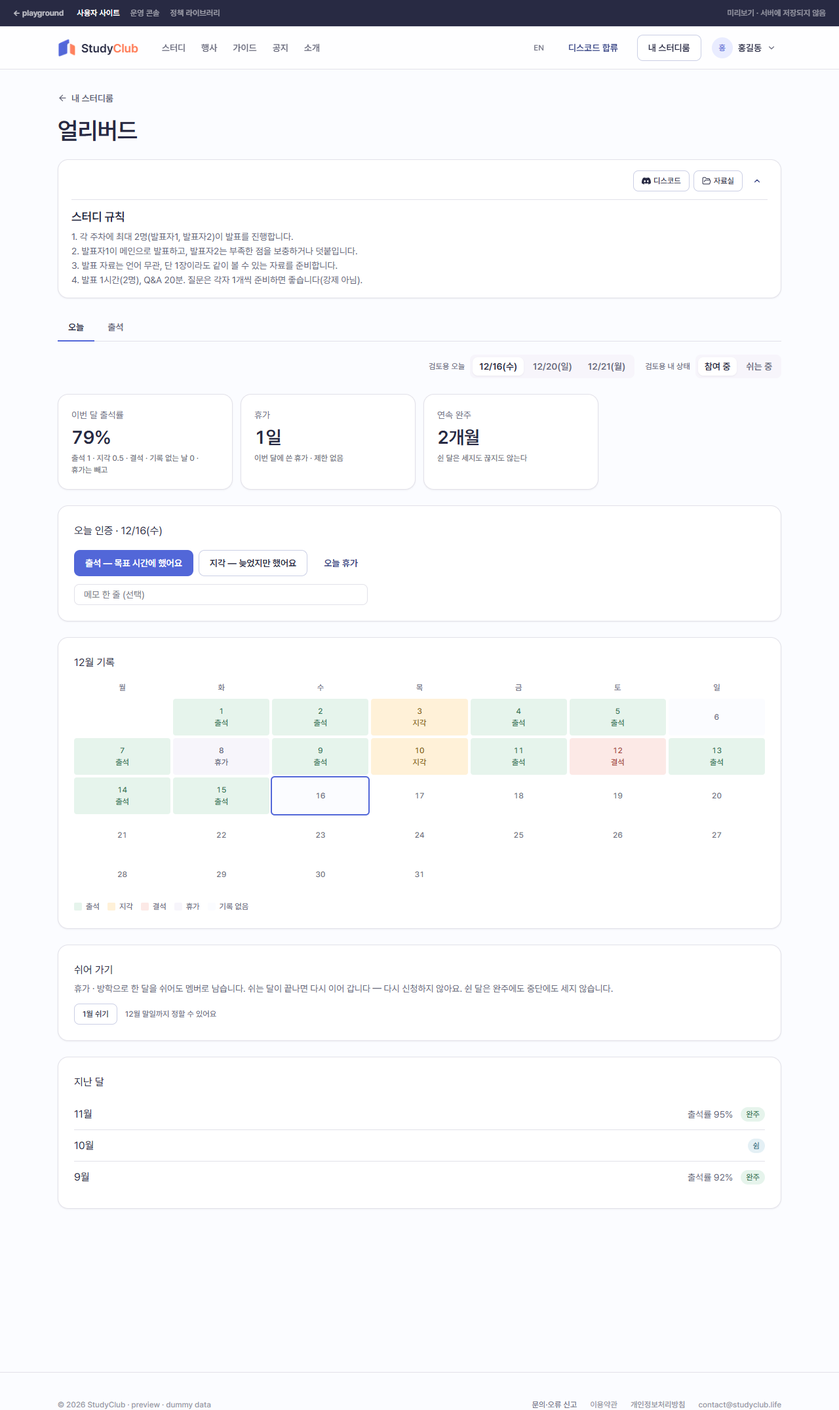
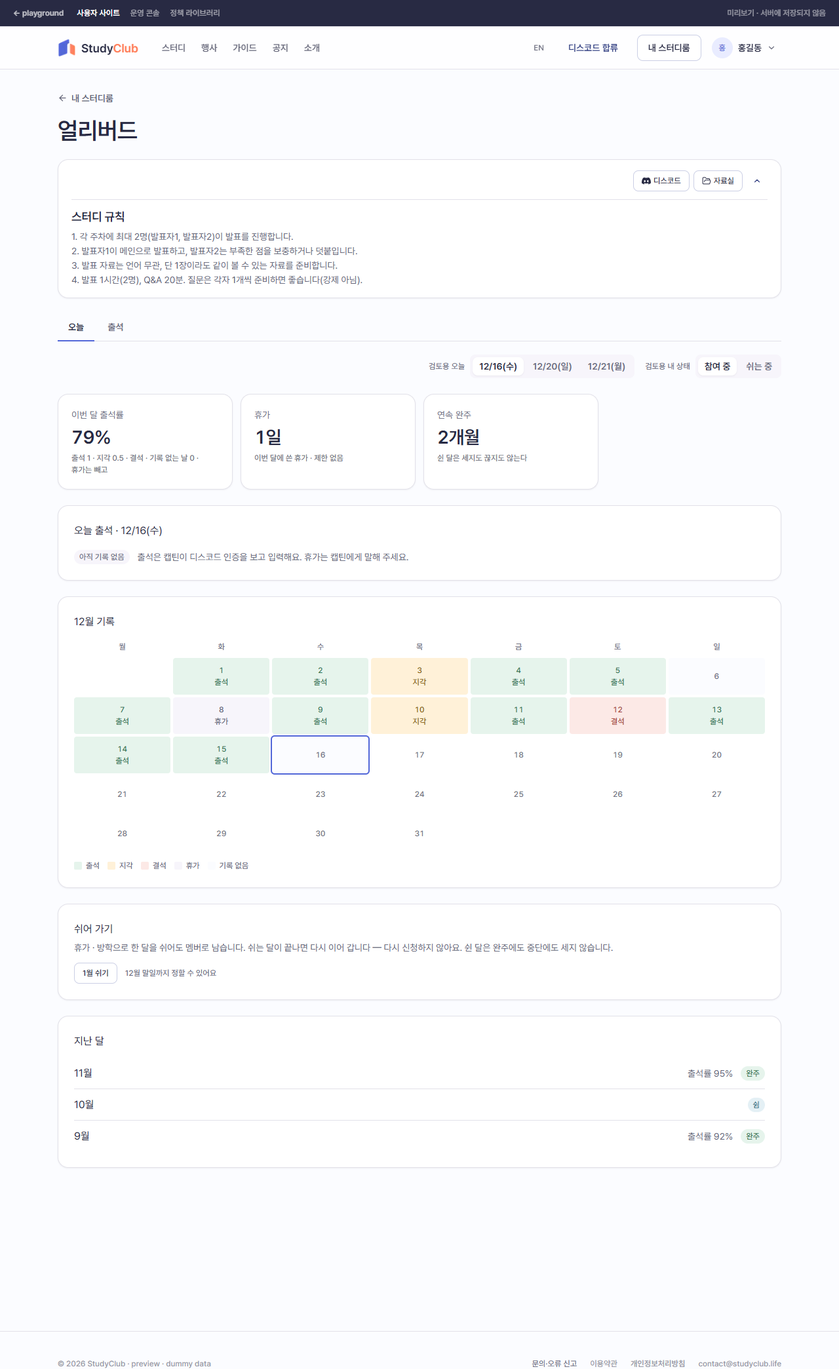
proto: 클럽 날 단위 출석은 캡틴만 입력 — 크루는 오늘 탭에서 보기만
- 얼리버드 오늘 탭의 인증 · 지각 · 휴가 · 메모 · 인증 취소를 없애고 캡틴이 남긴 값만 보인다
- 클럽 설정 source 에 captain 추가 (얼리버드). 캡틴만 입력하는 클럽은 「캡틴이 고침」 점을 찍지 않는다
- LeetCode 는 자동 기록, WEEKLY X 공부 시간은 그대로 크루가 적는다
- 화면명세 · PRD(ST-043 · ST-044) · POL-0012 · 캡처

diff --git a/frontend/apps/playground/src/app/(proto)/proto/core/[locale]/my/joined/[id]/schedule/club-spec.ts b/frontend/apps/playground/src/app/(proto)/proto/core/[locale]/my/joined/[id]/schedule/club-spec.ts
@@ -14,7 +14,7 @@ export const CLUB_TODAY_SPEC: ScreenSpec = {
   notes: [
     '**스터디와 같은 껍데기** — 내 스터디룸의 클럽 카드도 스터디 일정(`/my/joined/{study_id}/schedule`)으로 온다. 머리 · 규칙 카드 · 탭 줄이 같고, 탭만 「오늘 · 출석 · 공지」다 (스터디: 일정 · 출석 · 회고 · 공지)',
     '클럽에는 일정 · 회차 · 미팅이 없다 — 첫 탭이 「일정」 대신 「오늘」(내 기록)이고, 출석 탭은 멤버 × 날짜 판이다',
-    '**칸 · 숫자는 클럽 설정과 멤버 상태가 고른다** — 클럽 이름으로 나누지 않는다. 얼리버드: 오늘 인증 · 달력 · 출석률 / Daily LeetCode: 자동 기록 · 달력 · 연속일 / WEEKLY X: 주 목표 · 공부 시간 · 한 줄 · 최근 주 · 주 달성률',
+    '**칸 · 숫자는 클럽 설정과 멤버 상태가 고른다** — 클럽 이름으로 나누지 않는다. 얼리버드: 오늘 출석(보기) · 달력 · 출석률 / Daily LeetCode: 자동 기록 · 달력 · 연속일 / WEEKLY X: 주 목표 · 공부 시간 · 한 줄 · 최근 주 · 주 달성률',
     '**합격선은 두지 않는다** — 출석률 · 연속일 · 주 달성률을 숫자로만 보여 준다. **자동 제명도 하지 않는다**',
     '검토용 「오늘」(수 · 일 · 월)과 「내 상태」(참여 중 · 쉬는 중)는 프로토 도구다 — 오늘 탭과 출석 탭이 같은 값을 쓴다',
   ],
@@ -67,8 +67,8 @@ export const CLUB_TODAY_SPEC: ScreenSpec = {
     {
       n: '2-4',
       title: '휴가',
-      when: '하루 휴가를 받는 클럽 (얼리버드)',
-      display: ['이번 달에 쓴 휴가 일수. 한도가 있는 클럽이면 「쓴 수 / 한도」'],
+      when: '날 단위 클럽',
+      display: ['이번 달 휴가 일수 — 캡틴이 입력한다. 한도가 있는 클럽이면 「쓴 수 / 한도」'],
       policy: ['한도는 클럽 설정 값이다. 없으면 제한 없음 — 지금 세 클럽은 제한이 없다'],
     },
     {
@@ -80,34 +80,19 @@ export const CLUB_TODAY_SPEC: ScreenSpec = {
     },
     {
       n: '3',
-      title: '오늘 인증',
-      when: '크루가 직접 「했다」를 남기는 클럽 (얼리버드)',
-      display: ['오늘 날짜. 인증했으면 값 · 메모와 「인증 취소」'],
+      title: '오늘 출석',
+      when: '캡틴이 출석을 입력하는 클럽 (얼리버드)',
+      display: ['오늘 날짜와 캡틴이 남긴 값'],
+      policy: [
+        '**출석은 캡틴만 입력한다** (2026-11-26) — 크루는 인증 · 휴가를 직접 남기지 않고, 휴가는 캡틴에게 말한다',
+        '값은 스터디 출석과 같은 출석 · 지각 · 결석 · 휴가. 얼리버드 디스코드 포스트의 괄호 요일 `(화)` 가 지각이다',
+      ],
     },
     {
       n: '3-1',
-      title: '인증 버튼',
-      behavior: [
-        '「출석 — 목표 시간에 했어요」 · 「지각 — 늦었지만 했어요」',
-        '인증한 날에는 「인증 취소」 — 그날 안에만',
-      ],
-      policy: [
-        '값은 스터디 출석과 같은 출석 · 지각 · 결석 · 휴가. 크루는 출석 · 지각 · 휴가만 남기고, 결석은 캡틴이 적는다',
-        '얼리버드 시트의 괄호 요일 `(화)` 가 지각이다',
-        '오늘 칸만 인증한다. 지난 날은 캡틴이 출석부에서 고친다',
-      ],
-      data: ['`PUT /api/clubs/{programId}/me/checkins` — `date` · `result` · `note` → `CLUB_CHECKIN`(`SOURCE = CREW`)'],
-    },
-    {
-      n: '3-2',
-      title: '오늘 휴가',
-      behavior: ['오늘을 휴가로 남긴다 — 출석률 분모에서 빠진다'],
-      policy: ['한도가 있는 클럽이면 다 쓰면 누를 수 없다. 지금은 제한 없음'],
-    },
-    {
-      n: '3-3',
-      title: '메모 한 줄',
-      display: ['선택. 100자'],
+      title: '오늘 값',
+      display: ['값 배지, 없으면 「아직 기록 없음」과 캡틴이 디스코드 인증을 보고 입력한다는 안내'],
+      data: ['`GET /api/clubs/{programId}/me` 의 오늘 `CLUB_CHECKIN`(`SOURCE = CAPTAIN`)'],
     },
     {
       n: '4',
@@ -115,7 +100,7 @@ export const CLUB_TODAY_SPEC: ScreenSpec = {
       when: '외부 기록을 자동으로 받는 클럽 (Daily LeetCode)',
       display: ['「{외부 서비스} 기록을 자동으로 받아 옵니다」'],
       policy: [
-        '크루는 인증 버튼을 누르지 않는다. 기록이 틀리면 캡틴이 출석부에서 고친다 (지금 시트의 「어제 칸 스트릭 고치기」)',
+        '크루는 인증 버튼을 누르지 않는다. 기록이 틀리거나 휴가면 캡틴이 출석부에서 고친다 (지금 시트의 「어제 칸 스트릭 고치기」)',
       ],
       data: ['`CLUB_CHECKIN`(`SOURCE = AUTO`) — 날짜는 클럽 규칙의 기준 시각(UTC)으로 센다'],
     },

diff --git a/frontend/apps/playground/src/proto/core/components/MyClub.tsx b/frontend/apps/playground/src/proto/core/components/MyClub.tsx
@@ -278,71 +278,22 @@ const SECTIONS: Record<SectionKey, (c: Ctx) => ReactNode> = {
   history: HistorySection,
 };
 
-function TodaySection({ club, state, setState, today, month }: Ctx) {
+/**
+ * 오늘 기록 — 보기만 한다. 출석은 캡틴만 입력한다 (2026-11-26) — 크루는 인증 · 휴가를 직접 남기지 않는다.
+ */
+function TodaySection({ state, today }: Ctx) {
   const mark = state.days[today];
-  const [note, setNote] = useState('');
-  const limit = club.rules.vacationLimit;
-  const used = dayOffUsed(state, month);
-
-  function check(v: DayMark | undefined) {
-    setState((s) => {
-      const days = { ...s.days };
-      const notes = { ...s.notes };
-      if (v) {
-        days[today] = v;
-        if (note.trim()) notes[today] = note.trim();
-      } else {
-        delete days[today];
-        delete notes[today];
-      }
-      return { ...s, days, notes };
-    });
-    if (!v) setNote('');
-  }
-
   return (
     <Card data-anno='myclub:3' padding='lg'>
-      <h2 className='type-title-sm text-fg'>오늘 인증 · {shortDay(today)}</h2>
-      {mark ? (
-        <div className='mt-4 flex flex-wrap items-center gap-3'>
-          <Badge tone={MARK_TONE[mark]}>{MARK_LABEL[mark]}</Badge>
-          {state.notes[today] && <span className='type-body-sm text-fg-secondary'>{state.notes[today]}</span>}
-          <span data-anno='myclub:3-1'>
-            <Button variant='tertiary' size='sm' onClick={() => check(undefined)}>
-              인증 취소
-            </Button>
-          </span>
-        </div>
-      ) : (
-        <div className='mt-4 flex flex-col gap-3'>
-          <div className='flex flex-wrap gap-2'>
-            <span data-anno='myclub:3-1' className='flex flex-wrap gap-2'>
-              <Button onClick={() => check('present')}>출석 — 목표 시간에 했어요</Button>
-              <Button variant='secondary' onClick={() => check('late')}>
-                지각 — 늦었지만 했어요
-              </Button>
-            </span>
-            <span data-anno='myclub:3-2'>
-              <Button
-                variant='tertiary'
-                disabled={limit !== undefined && used >= limit}
-                onClick={() => check('excused')}
-              >
-                오늘 휴가{limit !== undefined ? ` (${limit - used}일 남음)` : ''}
-              </Button>
-            </span>
-          </div>
-          <span data-anno='myclub:3-3' className='max-w-md'>
-            <Input
-              size='sm'
-              placeholder='메모 한 줄 (선택)'
-              maxLength={100}
-              value={note}
-              onChange={(e) => setNote(e.target.value)}
-            />
-          </span>
-        </div>
-      )}
+      <h2 className='type-title-sm text-fg'>오늘 출석 · {shortDay(today)}</h2>
+      <div data-anno='myclub:3-1' className='mt-4 flex flex-wrap items-center gap-3'>
+        <Badge tone={mark ? MARK_TONE[mark] : 'neutral'}>{mark ? MARK_LABEL[mark] : '아직 기록 없음'}</Badge>
+        <span className='type-body-sm text-fg-secondary'>
+          {mark
+            ? '캡틴이 남긴 기록이에요.'
+            : '출석은 캡틴이 디스코드 인증을 보고 입력해요. 휴가는 캡틴에게 말해 주세요.'}
+        </span>
+      </div>
     </Card>
   );
 }
@@ -372,7 +323,7 @@ function AutoSection({ club, state, today }: Ctx) {
             ? `연속 ${currentStreak(state, today)}일째`
             : mark
               ? '캡틴이 남긴 기록이에요.'
-              : `${name}에서 풀면 출석으로 반영돼요. 기록이 틀리면 캡틴에게 알려 주세요.`}
+              : `${name}에서 풀면 출석으로 반영돼요. 기록이 틀리거나 휴가가 필요하면 캡틴에게 알려 주세요.`}
         </span>
       </div>
     </Card>

diff --git a/frontend/apps/playground/src/proto/club/ClubBoard.tsx b/frontend/apps/playground/src/proto/club/ClubBoard.tsx
@@ -41,6 +41,9 @@ const CELL: Record<DayMark, string> = {
 const SHORT: Record<DayMark, string> = { present: '출', late: '지', absent: '결', excused: '휴' };
 const LABEL: Record<DayMark, string> = { present: '출석', late: '지각', absent: '결석', excused: '휴가' };
 const SOURCE_LABEL = { crew: '크루가 남김', auto: '자동 기록', captain: '캡틴이 고침' } as const;
+/** 캡틴이 고친 칸 점 — 캡틴만 입력하는 클럽은 모든 칸이 캡틴 것이라 찍지 않는다 */
+const markEdited = (room: ClubRoom, id: string, d: string) =>
+  room.club.rules.source !== 'captain' && sourceOf(room, id, d) === 'captain';
 
 type Anno = Partial<Record<'table' | 'name' | 'extra' | 'dayHead' | 'cell' | 'total' | 'counts' | 'legend', string>>;
 
@@ -119,12 +122,16 @@ function Legend({ room, anno, extra }: { room: ClubRoom; anno?: string; extra?: 
           기록 없음
         </li>
       )}
-      <li className='flex items-center gap-1.5'>
-        <span className='relative h-5 w-5 rounded-sm border border-border bg-surface-1'>
-          <span className='absolute right-0.5 top-0.5 h-1.5 w-1.5 rounded-full bg-brand' />
-        </span>
-        {SOURCE_LABEL.captain} · 나머지는 {SOURCE_LABEL[r.source]}
-      </li>
+      {r.source === 'captain' ? (
+        <li>캡틴이 입력</li>
+      ) : (
+        <li className='flex items-center gap-1.5'>
+          <span className='relative h-5 w-5 rounded-sm border border-border bg-surface-1'>
+            <span className='absolute right-0.5 top-0.5 h-1.5 w-1.5 rounded-full bg-brand' />
+          </span>
+          {SOURCE_LABEL.captain} · 나머지는 {SOURCE_LABEL[r.source]}
+        </li>
+      )}
       {extra}
     </ul>
   );
@@ -232,7 +239,7 @@ function DayBoard({ room, days, onRoom, baseline, lead, nameExtra, showCounts, a
                     const v = s?.days[d];
                     const was = baseline?.states[m.id]?.days[d];
                     const changed = baseline !== undefined && was !== v;
-                    const captain = sourceOf(room, m.id, d) === 'captain' && v !== undefined;
+                    const captain = markEdited(room, m.id, d) && v !== undefined;
                     const text = v
                       ? r.metric === 'streak' && (v === 'present' || v === 'late')
                         ? String(currentStreak(s!, d))
@@ -406,7 +413,7 @@ function WeekBoard({ room, week, onRoom, baseline, lead, nameExtra, anno = {} }:
                   {days.map((d, di) => {
                     const v = s?.minutes[d];
                     const changed = baseline !== undefined && baseline.states[m.id]?.minutes[d] !== v;
-                    const captain = sourceOf(room, m.id, d) === 'captain' && v !== undefined;
+                    const captain = markEdited(room, m.id, d) && v !== undefined;
                     return (
                       <td
                         key={d}

diff --git a/frontend/apps/playground/src/proto/core/lib/my-club.ts b/frontend/apps/playground/src/proto/core/lib/my-club.ts
@@ -126,9 +126,6 @@ export function fmtMin(min: number): string {
 /** 날 단위 기록 값 — 스터디 출석과 같은 네 값. 클럽마다 고르지 않는다 */
 export const DAY_MARKS: readonly DayMark[] = ['present', 'late', 'absent', 'excused'];
 
-/** 크루가 오늘 칸에 스스로 남기는 값 — 결석은 캡틴이 적는다 (스터디도 결석은 네비게이터 · 캡틴이) */
-export const CREW_MARKS: readonly DayMark[] = ['present', 'late', 'excused'];
-
 /** 이 클럽 출석부의 값 — 날 단위면 네 값, 주 단위(공부 시간)는 없다 */
 export function marksFor(rules: ClubRules): DayMark[] {
   return rules.judge === 'day' ? [...DAY_MARKS] : [];
@@ -325,7 +322,7 @@ export type StatKey = 'monthRate' | 'dayOff' | 'streak' | 'monthDone' | 'weekNow
 type Rule<K> = { key: K; when: (r: ClubRules) => boolean };
 
 const SECTION_RULES: Rule<SectionKey>[] = [
-  { key: 'today', when: (r) => r.record === 'check' && r.source === 'crew' },
+  { key: 'today', when: (r) => r.record === 'check' && r.source !== 'auto' },
   { key: 'auto', when: (r) => r.source === 'auto' },
   { key: 'goal', when: (r) => r.weeklyGoal },
   { key: 'minutes', when: (r) => r.record === 'minutes' },

diff --git a/frontend/apps/playground/src/proto/console/lib/clubs.ts b/frontend/apps/playground/src/proto/console/lib/clubs.ts
@@ -54,8 +54,11 @@ export type ClubRules = {
   weeklyGoal: boolean;
   /** 주마다 한 줄(다짐 · 회고 · 사정 무엇이든, 선택)을 남기는가 */
   weeklyNote: boolean;
-  /** 인증하는 사람 — 크루 직접 / 외부 기록 자동 */
-  source: 'crew' | 'auto';
+  /**
+   * 기록을 남기는 곳 — 캡틴 입력(얼리버드) / 크루가 공부 시간을 적음(WEEKLY X) / 외부 기록 자동(Daily LeetCode).
+   * 날 단위 출석은 크루가 직접 남기지 않는다 (2026-11-26)
+   */
+  source: 'captain' | 'crew' | 'auto';
   /** 자동일 때 기록을 받아 오는 곳의 이름 (화면 안내) */
   autoSourceName?: string;
   /** 날마다 같은 「오늘의 문제」가 있는가 */
@@ -79,7 +82,7 @@ export const CLUBS: ClubConfig[] = [
       metric: 'rate',
       weeklyGoal: false,
       weeklyNote: false,
-      source: 'crew',
+      source: 'captain',
       dailyProblem: false,
     },
   },

diff --git a/frontend/apps/playground/src/app/(proto)/proto/console/clubs/spec.ts b/frontend/apps/playground/src/app/(proto)/proto/console/clubs/spec.ts
@@ -292,7 +292,7 @@ const BOOK: ScreenSpec = {
   chip: '월간 출석부',
   scope: 'clubbook',
   notes: [
-    '**사용자 사이트 출석 탭(ST-044)과 같은 판 · 같은 기록**이다 — 크루가 남기거나(얼리버드 · WEEKLY X) 자동으로 들어온(Daily LeetCode) 기록을 캡틴이 확인하고 고친다. 다 적지 않는다',
+    '**사용자 사이트 출석 탭(ST-044)과 같은 판 · 같은 기록**이다 — 날 단위 출석은 **캡틴만 입력한다**(얼리버드). Daily LeetCode 는 자동으로 들어온 기록을, WEEKLY X 는 크루가 적은 공부 시간을 캡틴이 확인하고 고친다',
     '칸 모양 · 숫자는 클럽 설정이 정한다 — 날 단위는 날짜 칸, 주 단위는 고른 주의 날마다 공부 시간 · 목표',
     '합격선 · 자동 제명이 없다 — 「살펴볼 사람」은 연락용이다',
   ],

diff --git a/frontend/apps/playground/src/proto/club/room.ts b/frontend/apps/playground/src/proto/club/room.ts
@@ -100,7 +100,7 @@ export function patchMember(room: ClubRoom, id: string, f: (s: MyClubState) => M
 /* ── 기록 → 숫자 · 출처 ─────────────────────────────────────────────── */
 
 export function sourceOf(room: ClubRoom, id: string, day: string): RecordSource {
-  if (room.states[id]?.byCaptain?.[day]) return 'captain';
+  if (room.club.rules.source === 'captain' || room.states[id]?.byCaptain?.[day]) return 'captain';
   return room.club.rules.source;
 }
 

diff --git a/01-planning/stories/crew-my-club/PRD.md b/01-planning/stories/crew-my-club/PRD.md
@@ -16,7 +16,8 @@ story_id: ST-044 · IA: IA-044 · 상태: 스펙작성중 (초안 — R2)
 
 · **실제 운영을 따른다** — 지금까지 캡틴이 시트 · 디스코드에 사람 판단으로 적어 왔다. 세 클럽의 기록 방식과 2026-11-26 캡틴 답을 규칙으로 옮겼다 ([POL-0012 「진행 방식」](../../_registry/policies/POL-0012-club-cohort.md#진행-방식--세-클럽의-실제-운영을-따른다)).
   - 얼리버드 — 디스코드 주간 포스트에 각자 한 요일을 누적해 적는다. 괄호 요일은 지각. 앞에 보이는 숫자는 출석률
-  - **출석 값은 스터디와 같다** — 출석 · 지각 · 결석 · 휴가 (2026-11-26). 날 단위 클럽 모두 같고, 크루는 출석 · 지각 · 휴가를 남기며 결석은 캡틴이 적는다
+  - **출석 값은 스터디와 같다** — 출석 · 지각 · 결석 · 휴가 (2026-11-26). 날 단위 클럽 모두 같다
+  - **출석은 캡틴만 입력한다** — 크루는 출석 · 휴가를 직접 남기지 않고 오늘 탭에서 보기만 한다. 휴가는 캡틴에게 말한다. LeetCode 는 자동 기록, WEEKLY X 공부 시간은 지금처럼 크루가 적는다
   - Daily LeetCode — 시트가 LeetCode 기록을 자동으로 읽어 연속일(스트릭)을 센다. 날마다 오늘의 문제가 있다
   - WEEKLY X — 해 단위 시트에 주 목표 시간 · 날마다 공부 시간 · 한 줄을 적고, 주 달성률(%)을 본다. 목표 0 은 쉬는 주
   - 서로의 기록을 본다 — 시트 · 포스트가 멤버 모두에게 열려 있다. 출석 탭이 이것을 옮긴다
@@ -34,7 +35,7 @@ flowchart LR
   T --> S{"멤버 상태"}
   S -->|쉬는 중| R["쉬는 안내 · 지금 돌아오기"]
   S -->|참여 중| D{"클럽 설정"}
-  D -->|크루 직접 · 날| E["오늘 인증 · 지각 · 휴가 · 달력"]
+  D -->|캡틴 입력 · 날| E["오늘 출석(보기) · 달력"]
   D -->|자동 · 날| G["오늘의 문제 · 오늘 기록 · 연속일 · 달력"]
   D -->|주| H["주 목표(0 = 쉬는 주) · 공부 시간 · 한 줄 · 최근 주"]
   K --> V{"역할"}
@@ -47,7 +48,7 @@ flowchart LR
 1. 클럽 카드는 스터디와 같은 스터디 일정으로 간다. 탭은 오늘 · 출석 · 공지. 주간 일정에 클럽은 나오지 않는다
 2. 규칙 카드에 모임 시각 · 네비게이터 칸이 없다
 3. 오늘 탭 요약 숫자는 클럽 설정의 「앞에 보이는 숫자」로 — 출석률 · 연속일 · 주 달성률. 합격선 · 달성 배지 없음
-4. 얼리버드형 — 오늘 인증(출석 · 지각) · 휴가(제한 없음) · 메모 · 인증 취소 · 달력. 값은 스터디와 같은 출석 · 지각 · 결석 · 휴가
+4. 얼리버드형 — 오늘 출석(캡틴이 입력한 값 보기) · 달력 · 휴가 일수. 크루 인증 · 휴가 버튼 없음
 5. LeetCode형 — 자동 기록 · 오늘의 문제 · 연속일 · 달력. 크루 인증 버튼 없음
 6. WEEKLY X형 — 월요일 주 목표(0 = 쉬는 주, 안 쓰면 이어 쓰기) · 날마다 공부 시간 · 주 한 줄(선택) · 최근 6주 달성률
 7. 다음 달 쉬기 · 쉬는 중 안내 · 지금 돌아오기 — 쉬어도 멤버로 남는다
@@ -78,8 +79,7 @@ flowchart LR
 
 | 상태 | 무엇이 다른가 |
 | --- | --- |
-| 얼리버드 · 인증 전 | 「출석 · 지각」 · 오늘 휴가 · 메모 칸 |
-| 얼리버드 · 인증 뒤 | 값 배지 · 메모 · 「인증 취소」 |
+| 얼리버드 · 입력 전 / 뒤 | 「아직 기록 없음 — 캡틴이 입력」 / 값 배지 |
 | LeetCode · 오늘 기록 없음 / 있음 | 「아직 기록 없음」 안내 / 「출석 · 연속 n일째」 |
 | WEEKLY X · 월요일 | 주 목표 입력이 열린다 |
 | WEEKLY X · 목표 0 인 주 | 「쉬는 주」 — 달성률 · 평균에서 빠진다 |
@@ -99,7 +99,7 @@ flowchart LR
 | FE | core-front 내 스터디룸 | 주간 일정에 클럽이 섞인다 | 주간 일정에서 클럽 빼기 |
 | BE | `GET /api/clubs/{programId}/me` | 스펙 없음 | 스펙 · 구현 |
 | BE | `GET /api/clubs/{programId}/board?month=` | 스펙 없음 | 스펙 · 구현 — 멤버만 |
-| BE | `PUT /api/clubs/{programId}/me/checkins` | 스펙 없음 | 스펙 · 구현 |
+| BE | `PUT /api/clubs/{programId}/me/checkins` | 스펙 없음 | 스펙 · 구현 — 주 단위 공부 시간만 (날 단위 출석은 캡틴 API) |
 | BE | `PUT /api/clubs/{programId}/me/weeks/{monday}` | 스펙 없음 | 스펙 · 구현 (`CLUB_WEEK` 표 필요) |
 | BE | `PUT /api/clubs/{programId}/me/rest` | 스펙 없음 | 스펙 · 구현 (`CLUB_MEMBER` 쉬는 기간) |
 | BE | LeetCode 기록 자동 수집 | 시트 스크립트 | 수집 방식 정하기 (지금 시트가 하는 일을 서버로) |
@@ -116,7 +116,7 @@ flowchart LR
 ### 처리
 
 - 날짜는 시간대 없는 그날이다. 하루를 언제부터 세나는 클럽 규칙 글에 적는다 (LeetCode 는 UTC)
-- 날 단위 값은 스터디와 같은 `PRESENT · LATE · ABSENT · EXCUSED`. 크루는 `ABSENT` 를 남길 수 없다
+- 날 단위 값은 스터디와 같은 `PRESENT · LATE · ABSENT · EXCUSED`. 크루는 날 단위 값을 남길 수 없다 — 캡틴(`SOURCE = CAPTAIN`) · 자동(`AUTO`)만
 - 출석률 = (출석 1 + 지각 0.5) ÷ 센 날. 휴가 · 쉬는 달은 빼고, 결석 · 기록 없는 지난 날은 0 (제안)
 - 연속일 = 오늘(안 했으면 어제)부터 거꾸로 출석 · 지각이 이어진 날. 휴가는 건너뛰고 결석 · 기록 없는 날에서 끊긴다. 달을 넘어 이어진다
 - 주 달성률 = 주 합계 ÷ 목표 × 100. 목표 0 이면 계산하지 않는다(쉬는 주). 목표를 안 쓰면 가장 가까운 0 아닌 지난 목표

diff --git a/01-planning/_registry/policies/POL-0012-club-cohort.md b/01-planning/_registry/policies/POL-0012-club-cohort.md
@@ -73,7 +73,7 @@
 
 | 클럽 | 매일 남기는 것 | 앞에 보이는 숫자 | 그 밖 |
 |---|---|---|---|
-| 얼리버드 | 크루가 출석 · 지각 · 휴가 | 이번 달 출석률 | 디스코드 주간 포스트의 괄호 요일 `(화)` 가 **지각**이다. 휴가 제한 없음 |
+| 얼리버드 | **캡틴이** 출석 · 지각 · 결석 · 휴가를 입력 (디스코드 인증을 보고) | 이번 달 출석률 | 디스코드 주간 포스트의 괄호 요일 `(화)` 가 **지각**이다. 휴가 제한 없음 |
 | Daily LeetCode | 자동 — LeetCode 에서 풀면 출석 | **연속일(스트릭)** — 출석 · 지각이 이어진 날. 휴가는 건너뛰고 결석 · 기록 없는 날에서 1부터, 달을 넘어 이어진다 | 날마다 오늘의 문제. 하루 기준은 UTC. 기록이 틀리면 캡틴이 고친다 |
 | WEEKLY X | 크루가 공부 시간(분) | **주 달성률 %** = 주 합계 ÷ 목표 (100 을 넘을 수 있다) | 주마다 목표 시간 · 한 줄(다짐 · 회고 무엇이든, 선택). **목표 0 = 쉬는 주** — 달성률에 세지 않는다. 주는 월 ~ 일, 해 기준 주차로 부른다 |
 
@@ -127,13 +127,15 @@
 ## 출석 — 날마다, 출석 여부만
 
 - 출석부의 칸은 **멤버 × 그 달의 날짜**다. 클럽은 모임 시각이 없다. 한 칸이 인증 한 건이다
-- **기록은 크루가 남기고(얼리버드 · WEEKLY X) 또는 자동으로 들어오고(Daily LeetCode), 캡틴은 확인하고 고친다.** 캡틴이 고친 칸은 표시가 남는다(`SOURCE = CAPTAIN`). R1 동안 시트에서 옮겨 적는 길(붙여넣기)도 둔다
-- 크루는 오늘 칸만(주 단위는 이번 주) 남긴다. 지난 기록은 캡틴이 고친다
+- **날 단위 출석은 캡틴만 입력한다** (2026-11-26). 크루는 출석 · 휴가를 직접 남기지 않는다 — 휴가가 필요하면 캡틴에게 말한다
+  - 얼리버드: 캡틴이 디스코드 인증을 보고 입력한다(`SOURCE = CAPTAIN`)
+  - Daily LeetCode: LeetCode 기록이 자동으로 출석이 되고(`SOURCE = AUTO`), 캡틴이 확인하고 고친다. 고친 칸은 표시가 남는다
+  - WEEKLY X(주 단위): 지금처럼 크루가 이번 주 공부 시간 · 목표 · 한 줄을 적고, 캡틴이 고친다
+- R1 동안 시트에서 옮겨 적는 길(붙여넣기)도 둔다
 - **멤버는 서로의 기록을 본다** — 사용자 사이트 출석 탭. 지금 시트 · 디스코드 포스트가 멤버에게 열려 있는 것을 옮긴다. 이름은 디스코드 별명, 그 클럽 멤버에게만 보인다
 - 운영 콘솔 출석부와 사용자 사이트 출석 탭은 같은 판 · 같은 기록이다. 캡틴은 두 곳 어디서든 고친다
 - 「살펴볼 사람」 — 사흘째 기록이 없는 멤버를 캡틴에게 보인다. 연락용이고 내보내지 않는다
 - 출석 값은 **스터디와 같다 — 출석 · 지각 · 결석 · 휴가** (2026-11-26). 날 단위 클럽(얼리버드 · Daily LeetCode)은 모두 이 네 값이고 클럽마다 고르지 않는다. WEEKLY X 는 주 단위라 날마다 공부 시간(분)을 남긴다
-  - 크루는 오늘 칸에 출석 · 지각 · 휴가를 남긴다. **결석은 캡틴이 적는다** (스터디도 결석은 네비게이터 · 캡틴이)
   - 지각은 0.5일. 휴가는 제한 없음(한도는 클럽 설정으로 둘 수 있다)
 - 2027-01 시행 때 설정
 

diff --git a/01-planning/stories/captain-club-monthly-attendance/PRD.md b/01-planning/stories/captain-club-monthly-attendance/PRD.md
@@ -8,7 +8,7 @@ story_id: ST-043 · IA: IA-043
 
 · **배경** — 클럽에는 모임 시각이 없다. 그래서 출석부는 회차가 아니라 **멤버 × 그 달의 날짜**다.
 
-· **캡틴은 다 적지 않고 확인하고 고친다** (2026-11-26) — 기록은 크루가 「오늘」 탭에서 남기거나(얼리버드 · WEEKLY X) 외부에서 자동으로 들어온다(Daily LeetCode, [ST-044](../crew-my-club/PRD.md)). 캡틴은 그 기록을 보고 틀린 칸을 고친다. 고친 칸에는 「캡틴이 고침」 표시가 남는다. R1 동안 시트에서 옮겨 적는 길(붙여넣기)도 남긴다.
+· **날 단위 출석은 캡틴만 입력한다** (2026-11-26) — 얼리버드는 캡틴이 디스코드 인증을 보고 입력한다. 크루는 출석 · 휴가를 직접 남기지 않는다. Daily LeetCode 는 자동으로 들어온 기록을, WEEKLY X 는 크루가 적은 공부 시간을 캡틴이 확인하고 고친다([ST-044](../crew-my-club/PRD.md)). 자동 · 크루 기록을 고친 칸에는 「캡틴이 고침」 표시가 남는다. R1 동안 시트에서 옮겨 적는 길(붙여넣기)도 남긴다.
 
 · **사용자 사이트 출석 탭과 같은 판** — 크루가 보는 멤버 전원의 판(ST-044 출석 탭)과 같은 부품 · 같은 기록이다. 칸 모양 · 숫자는 클럽 설정(진행 방식)이 정한다 — 날 단위는 날짜 칸, WEEKLY X 는 고른 주의 날마다 공부 시간 · 목표. 합격선 · 자동 제명은 없고, 「살펴볼 사람」은 연락용이다. 한 칸이 인증 한 건(`CLUB_CHECKIN`)이다 — [클럽 모델 결정 (2026-11-25)](../../../docs/share/2026-11-25-club-own-model.md). 규칙은 [POL-0012](../../_registry/policies/POL-0012-club-cohort.md).
 
@@ -69,7 +69,7 @@ flowchart LR
 
 <!-- spec:start clubbook -->
 
-> **사용자 사이트 출석 탭(ST-044)과 같은 판 · 같은 기록**이다 — 크루가 남기거나(얼리버드 · WEEKLY X) 자동으로 들어온(Daily LeetCode) 기록을 캡틴이 확인하고 고친다. 다 적지 않는다
+> **사용자 사이트 출석 탭(ST-044)과 같은 판 · 같은 기록**이다 — 날 단위 출석은 **캡틴만 입력한다**(얼리버드). Daily LeetCode 는 자동으로 들어온 기록을, WEEKLY X 는 크루가 적은 공부 시간을 캡틴이 확인하고 고친다
 >
 > 칸 모양 · 숫자는 클럽 설정이 정한다 — 날 단위는 날짜 칸, 주 단위는 고른 주의 날마다 공부 시간 · 목표
 >
